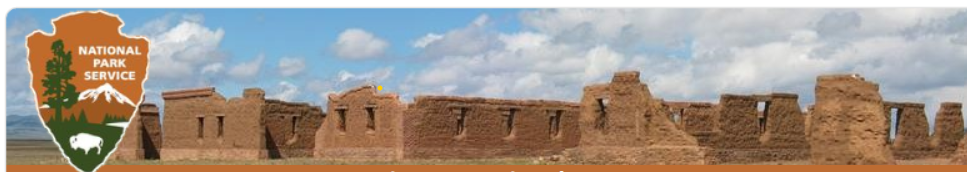
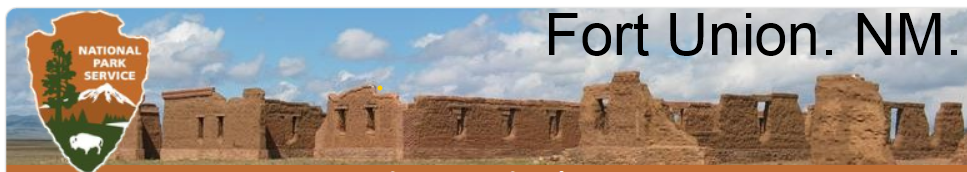
adjusted MUIR Woods popup fonr

Changed region(s): [[0.5584, 0.0581, 0.9928, 0.3198]]

diff --git a/park-brochures/links.js b/park-brochures/links.js
@@ -35,7 +35,7 @@ let YOSE_catalog = "<a href='https://eosfcweb01.eosfc-intl.net/N94044/OPAC/Searc
 let YOSE_Muir = "<a href='https://eosfcweb01.eosfc-intl.net/N94044/OPAC/Details/Record.aspx?BibCode=74655891'>John Muir writings</a><br>"
 let YOSE_gmp = "<a href='https://eosfcweb01.eosfc-intl.net/N94044/OPAC/Details/Record.aspx?BibCode=54724664' >General management plan</a><br>"
 
-let MUWO_map_link ="Muir Woods<br><a href='https://www.nps.gov/muwo/planyourvisit/maps.htm'>Visitor map</a><br>"
+let MUWO_map_link ="<a href='https://www.nps.gov/muwo/planyourvisit/maps.htm'>Visitor map</a><br>"
 let MUWO_catalog = "<a href='https://eosfcweb01.eosfc-intl.net/N94044/OPAC/Search/SimpleSearch.aspx?txtSearch=Muir+Woods&selectUsing=2.0&rows=20>'>Library catalog search</a><br>"
 let MUWO_Muir = "<a href='https://eosfcweb01.eosfc-intl.net/N94044/OPAC/Details/Record.aspx?BibCode=74655891'>John Muir writings</a><br>"
 

diff --git a/park-brochures/index.html b/park-brochures/index.html
@@ -141,27 +141,6 @@ Click anywhere on the map to get links to Google, Bing and OpenStreetMap maps <b
 
 	map.on('click', onMapClick);
 		
-	//const freeBusLayer = L.geoJSON(freeBus, {
-
-	//	filter(feature, layer) {
-	//		if (feature.properties) {
-	//			// If the property "underConstruction" exists and is true, return false (don't render features under construction)
-	//			return feature.properties.underConstruction !== undefined ? !feature.properties.underConstruction : true;
-	//		}
-	//		return false;
-	//	},
-
-	//	onEachFeature
-	//}).addTo(map);
-
-	//const coorsLayer = L.geoJSON(coorsField, {
-
-	//	pointToLayer(feature, latlng) {
-	//		return L.marker(latlng, {icon: baseballIcon});
-	//	},
-
-	//	onEachFeature
-	//}).addTo(map);
 
 </script>
 

diff --git a/park-brochures/places-geojson.js b/park-brochures/places-geojson.js
@@ -11,7 +11,7 @@ var park = {
             },
             "type": "Feature",
 			    "properties": {
-                "popupContent": MUWO_map_link + MUWO_catalog + MUWO_Muir,
+                "popupContent": "<font size='4'>Muir Woods</font size><br>"+ MUWO_map_link + MUWO_catalog + MUWO_Muir,
                 "show_on_map": true
             },
             "id": 1
